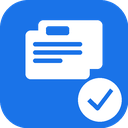
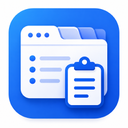
更改插件icon图标、隐私条款

diff --git a/popup.html b/popup.html
@@ -9,13 +9,22 @@
 <body>
   <div class="container">
     <div class="header">
-      <span class="title">📋 Tab Copier</span>
+      <span class="title">
+        <img src="icons/icon24.png" alt="" class="title-icon" width="24" height="24" />
+        Tab Copier
+      </span>
       <button type="button" id="selectAllBtn" class="link-btn">Deselect All</button>
       <span class="count" id="countLabel">Selected 0</span>
     </div>
     <div class="tab-list" id="tabList"></div>
     <div class="footer">
-      <button id="copyBtn" class="primary-btn">📋 Copy All</button>
+      <button id="copyBtn" class="primary-btn">
+        <svg class="btn-icon" width="14" height="14" viewBox="0 0 24 24" fill="none" stroke="currentColor" stroke-width="2" stroke-linecap="round" stroke-linejoin="round" aria-hidden="true">
+          <rect x="9" y="9" width="13" height="13" rx="2" ry="2"></rect>
+          <path d="M5 15H4a2 2 0 0 1-2-2V4a2 2 0 0 1 2-2h9a2 2 0 0 1 2 2v1"></path>
+        </svg>
+        Copy All
+      </button>
       <div id="toast" class="toast hidden">✅ Copied</div>
       <a href="https://ko-fi.com/sumei7550" target="_blank" rel="noopener noreferrer" class="kofi-link">
         ☕ Buy me a coffee

diff --git a/popup.css b/popup.css
@@ -25,6 +25,13 @@ body {
   font-size: 15px;
   color: #1e1e1e;
   flex-shrink: 0;
+  display: inline-flex;
+  align-items: center;
+  gap: 6px;
+}
+.title-icon {
+  display: block;
+  flex-shrink: 0;
 }
 .link-btn {
   background: none;
@@ -106,6 +113,14 @@ body {
   font-weight: 500;
   cursor: pointer;
   transition: background 0.2s;
+  display: inline-flex;
+  align-items: center;
+  justify-content: center;
+  gap: 8px;
+}
+.btn-icon {
+  display: block;
+  flex-shrink: 0;
 }
 .primary-btn:hover {
   background: #1557b0;
